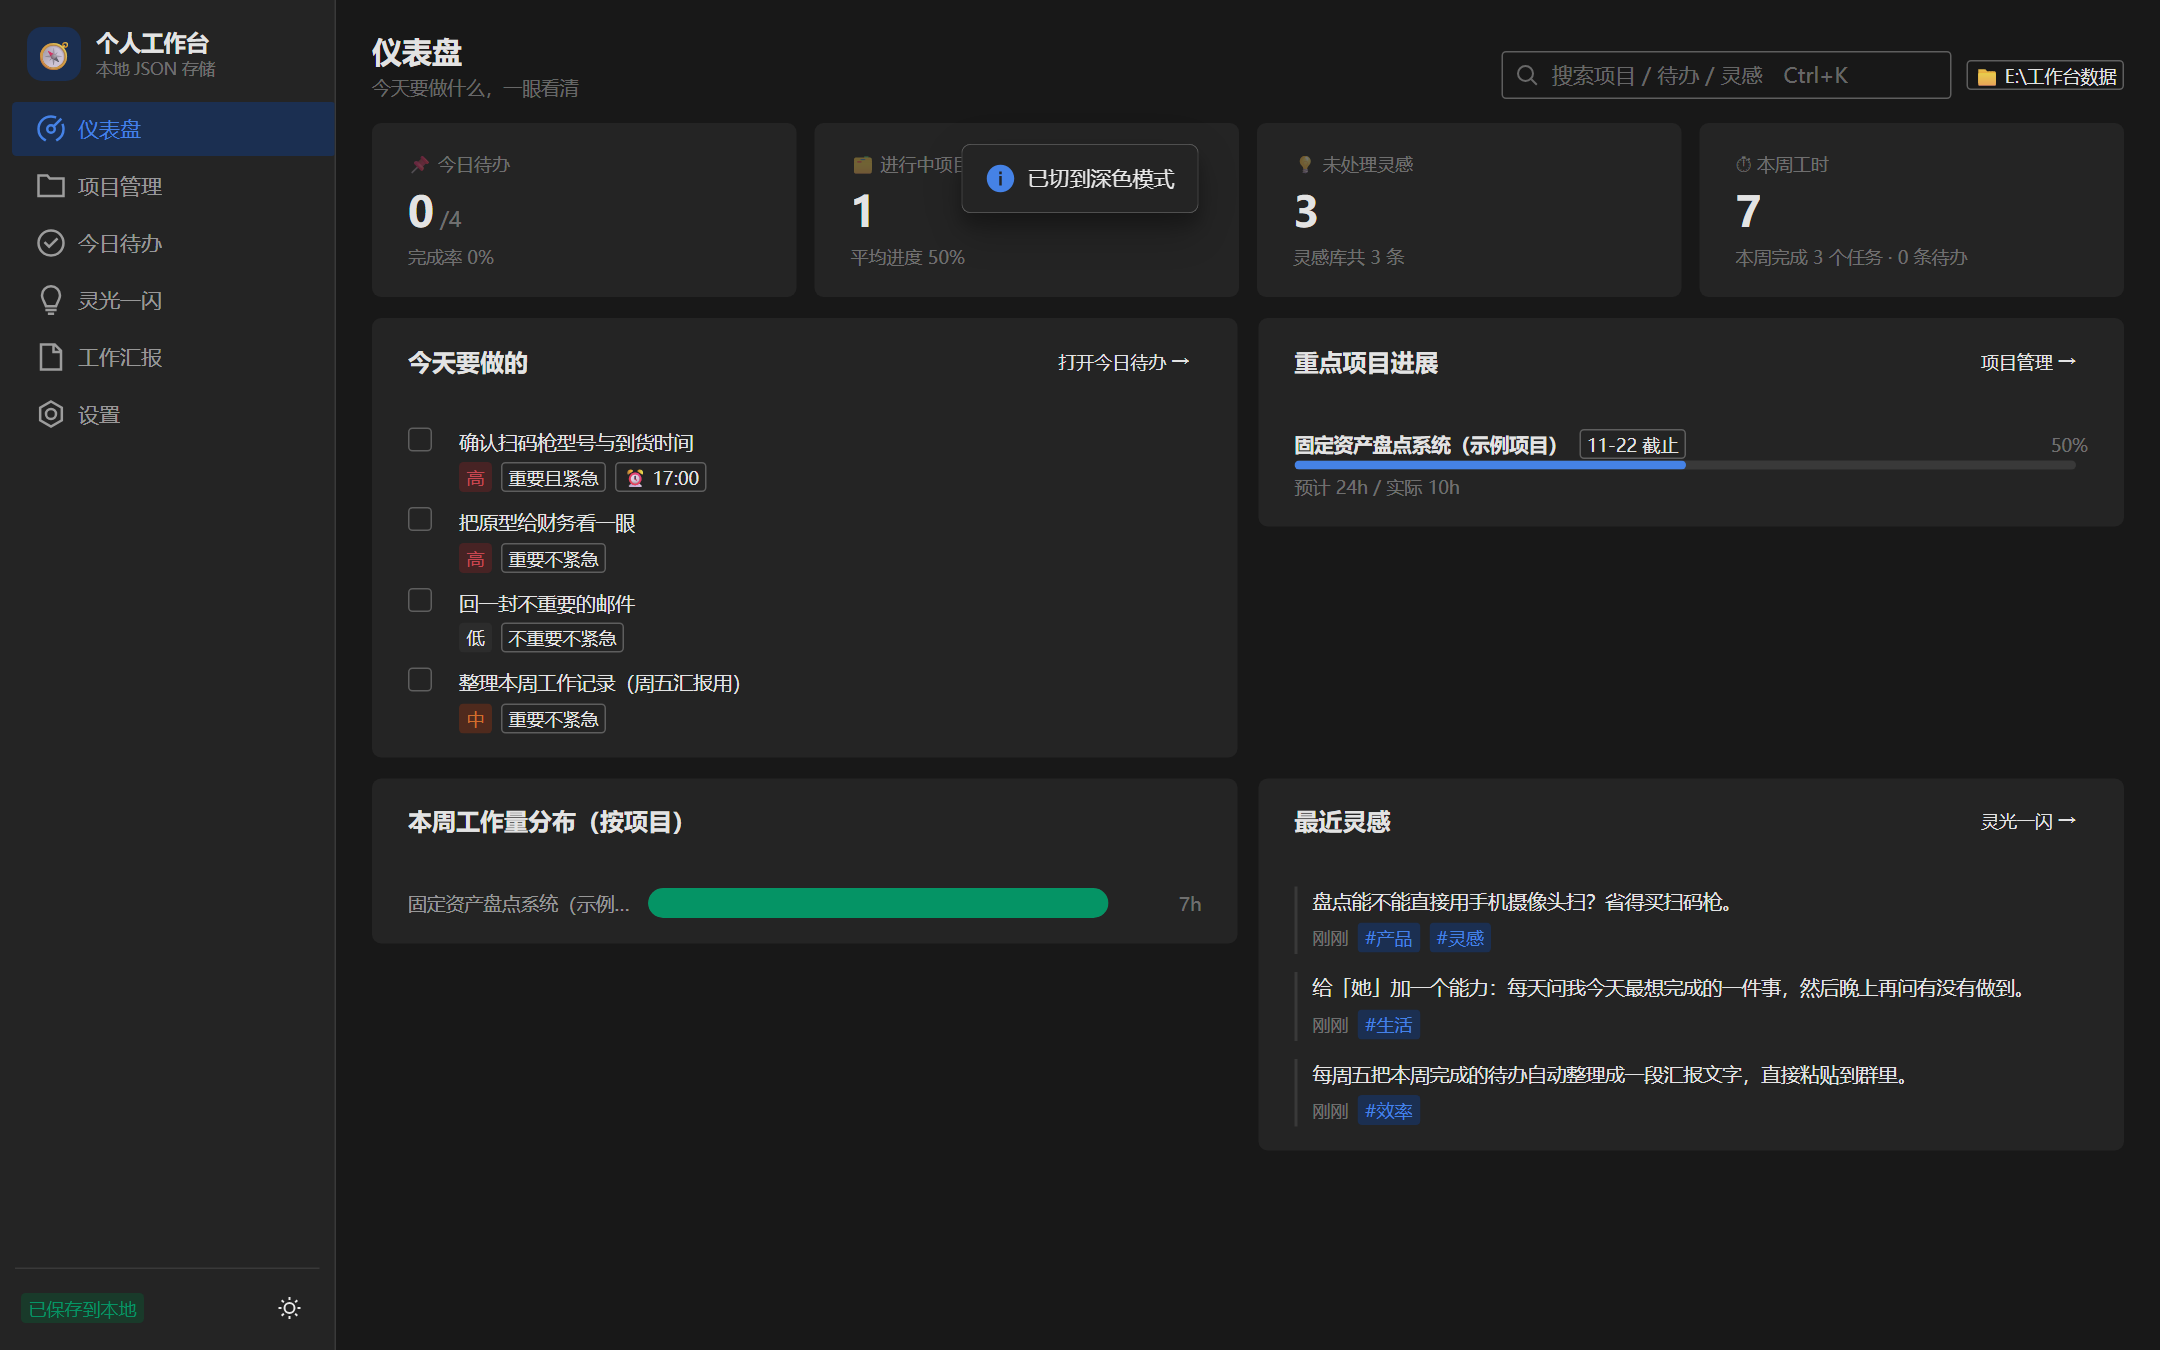
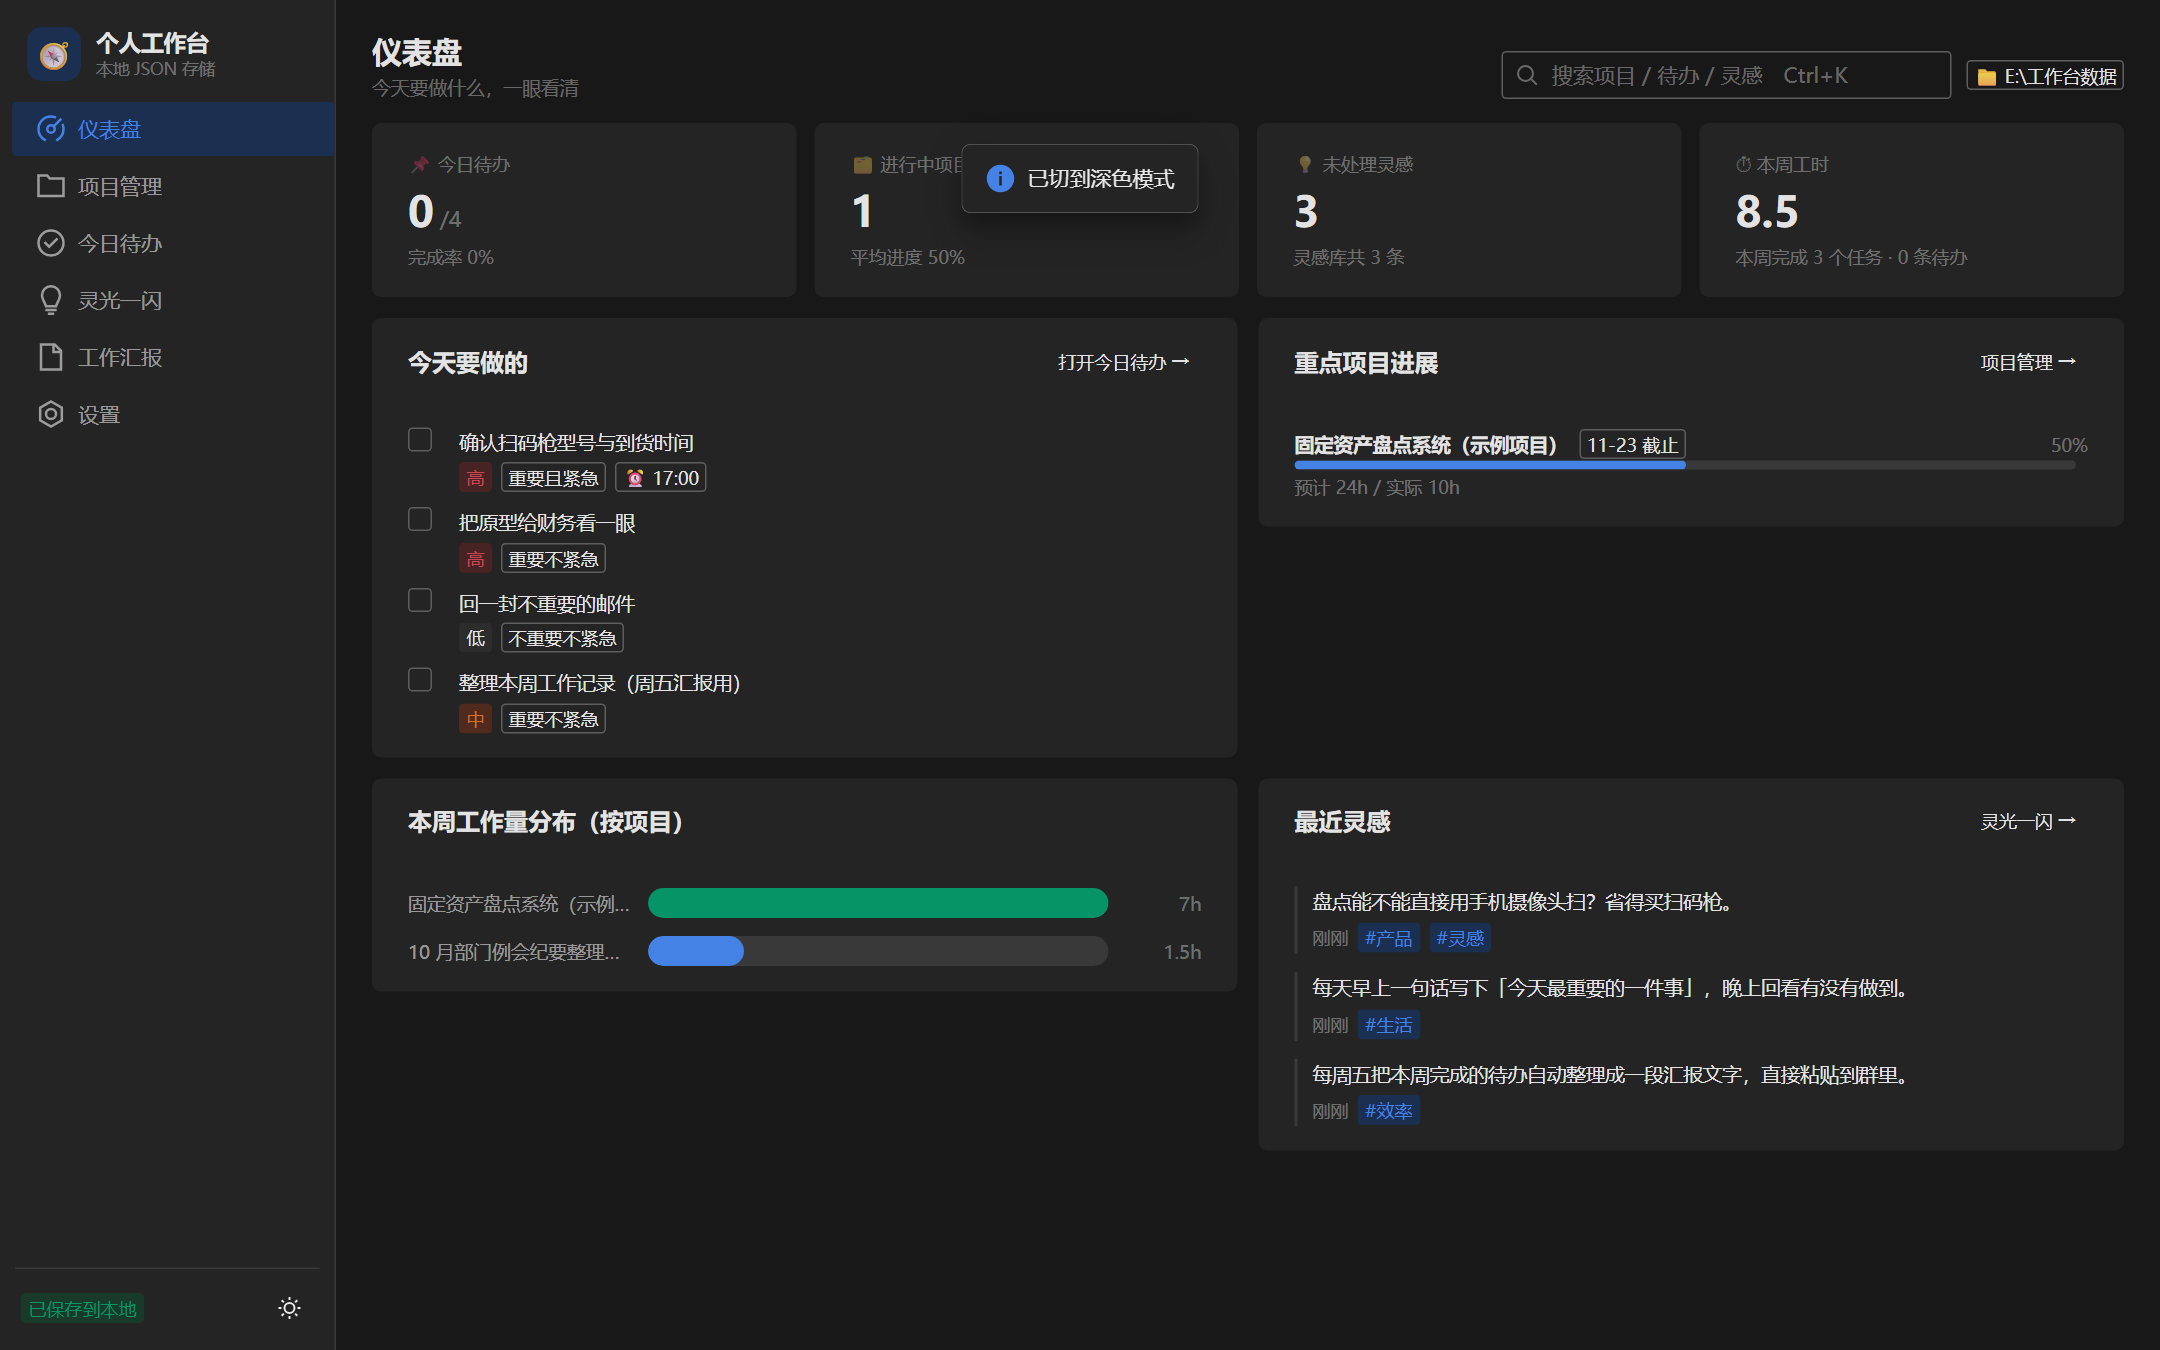
chore: 开源前清理与加固（相对路径、示例数据中性化、隐私说明、补充测试）
- 所有脚本/测试改为项目相对路径（scripts/env.mjs 统一 ROOT/REVIEW/DATA + Chrome 自动探测，支持 CHROME_PATH）
- 清掉源码里写死的本机绝对路径（页面文案、README、4 个脚本）
- 示例灵感内容中性化（去掉个人化表述）；示例工时/完成日期改为落在本周内，跨周不再空掉
- README 新增「隐私与安全」：列出哪些文件不入库、运行时零外网请求
- package.json 补 license / repository / test:extra
- 新增 test/e2e-extra.mjs（导出内容、导入、改数据目录、零外网、409 冲突）
- 四套测试 128 项全绿

Changed region(s): [[0.5894, 0.7156, 0.9306, 0.7467], [0.1861, 0.6844, 0.5273, 0.7156], [0.8065, 0.1244, 0.8375, 0.1867]]

diff --git a/src/core/seed.ts b/src/core/seed.ts
@@ -1,6 +1,6 @@
 /** 示例数据：第一次打开时可以先看看长什么样 */
 import { newIdea, newTask, newTodo, nextOrder, store } from './store';
-import { nowISO, todayISO, addDaysISO } from './util';
+import { nowISO, todayISO, addDaysISO, weekStart } from './util';
 
 export function hasAnyData(): boolean {
   return store.projects.length > 0 || store.todos.length > 0 || store.ideas.length > 0;
@@ -8,7 +8,13 @@ export function hasAnyData(): boolean {
 
 export function loadDemoData(): void {
   const today = todayISO();
-  const doneAt = (daysAgo: number): string => `${addDaysISO(today, -daysAgo)}T18:00:00.000Z`;
+  const weekStartISO = weekStart();
+  /** 往前推 n 天；如果跨过本周一，就落到今天（保证示例数据始终"本周有内容"） */
+  const recentDay = (daysAgo: number): string => {
+    const d = addDaysISO(today, -daysAgo);
+    return d < weekStartISO ? today : d;
+  };
+  const doneAt = (daysAgo: number): string => `${recentDay(daysAgo)}T18:00:00.000Z`;
 
   const project = newTask({
     title: '固定资产盘点系统（示例项目）',
@@ -37,7 +43,7 @@ export function loadDemoData(): void {
       tags: ['沟通'],
       estHours: 2,
       actHours: 2.5,
-      timeLogs: [{ id: 'seed-log-1', date: addDaysISO(today, -3), hours: 2.5, note: '财务 1h + 行政 1.5h' }],
+      timeLogs: [{ id: 'seed-log-1', date: recentDay(3), hours: 2.5, note: '财务 1h + 行政 1.5h' }],
     }),
     newTask({
       title: '输出流程图 v1',
@@ -47,7 +53,7 @@ export function loadDemoData(): void {
       tags: ['文档'],
       estHours: 4,
       actHours: 4.5,
-      timeLogs: [{ id: 'seed-log-2', date: addDaysISO(today, -1), hours: 4.5, note: '' }],
+      timeLogs: [{ id: 'seed-log-2', date: recentDay(1), hours: 4.5, note: '' }],
     }),
   );
 
@@ -134,7 +140,7 @@ export function loadDemoData(): void {
       tags: ['效率'],
     }),
     newIdea({
-      content: '给「她」加一个能力：每天问我今天最想完成的一件事，然后晚上再问有没有做到。',
+      content: '每天早上一句话写下「今天最重要的一件事」，晚上回看有没有做到。',
       tags: ['生活'],
     }),
   );

diff --git a/src/views/Dashboard.vue b/src/views/Dashboard.vue
@@ -91,7 +91,7 @@ function loadDemo(): void {
         <div class="welcome">
           <h2>👋 欢迎，这是你的个人工作台</h2>
           <p class="muted">
-            数据会以 JSON 文件保存在你指定的文件夹里（默认 E:\vs_code_js\workbench\data），不经过任何外部服务器。
+            数据会以 JSON 文件保存在你指定的文件夹里（默认是工作台目录下的 data，可在设置里改），不经过任何外部服务器。
           </p>
           <div class="toolbar">
             <t-button theme="primary" @click="router.push('/projects')">建第一个项目</t-button>
